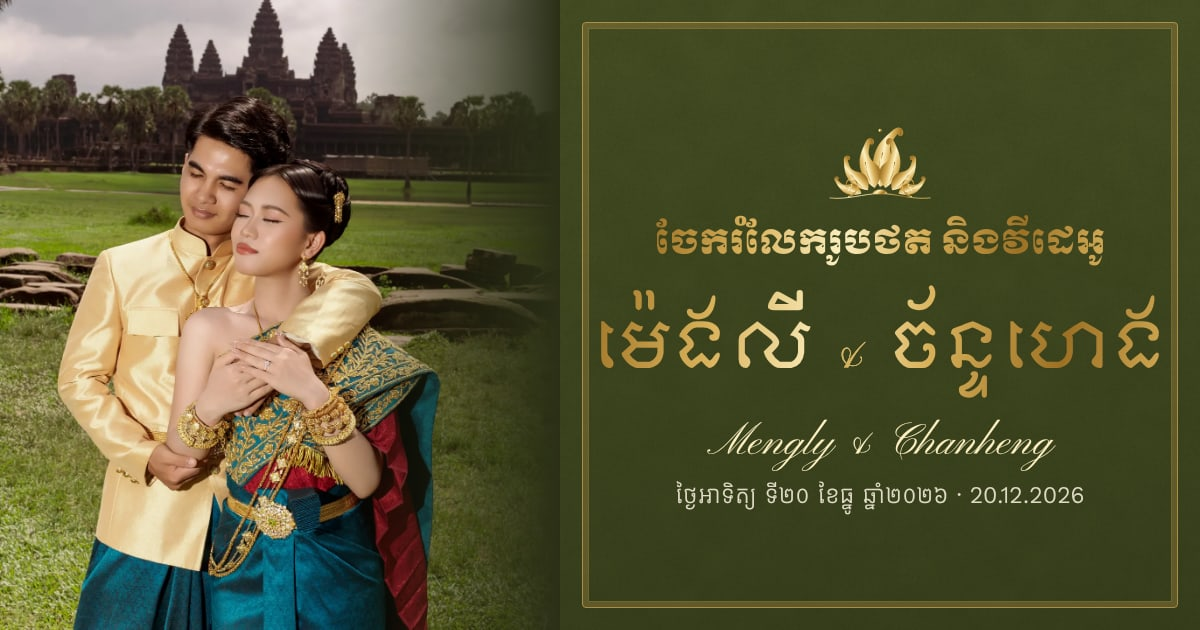
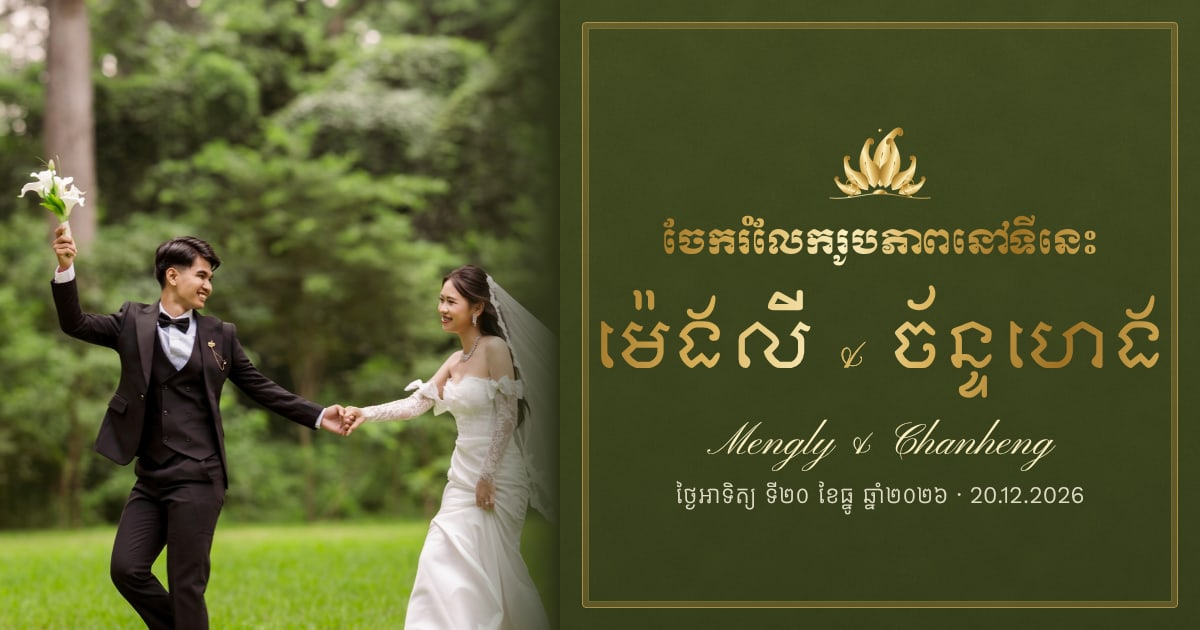
Photos: link preview with the forest couple photo + ចែករំលែករូបភាពនៅទីនេះ
Claude-Session: https://claude.ai/code/session_01KMMGV3abvatx73726xmVAK

diff --git a/scripts/og-photos.html b/scripts/og-photos.html
@@ -21,12 +21,13 @@
   .en { font-family: 'Pinyon Script'; font-size: 44px; color: #fbefc0; margin-top: 8px; }
   .d { font-family: 'Kantumruy Pro'; font-size: 24px; margin-top: 10px; opacity: .9; }
   .crest { width: 120px; }
+.photo::after{background:linear-gradient(90deg,rgba(18,20,11,0) 82%,#2a2f16)!important}
 </style></head>
 <body><div class="og">
-  <div class="photo"><img src="/photos/09-angkor-embrace-1280.webp"></div>
+  <div class="photo"><img src="/scripts/og-photos-couple.jpg" style="object-position:44% 50%"></div>
   <div class="side">
     <svg class="crest" id="crest"></svg>
-    <div class="t foil">ចែករំលែករូបថត និងវីដេអូ</div>
+    <div class="t foil">ចែករំលែករូបភាពនៅទីនេះ</div>
     <div class="n foil">ម៉េងលី <span class="amp">&amp;</span> ច័ន្ទហេង</div>
     <div class="en">Mengly &amp; Chanheng</div>
     <div class="d">ថ្ងៃអាទិត្យ ទី២០ ខែធ្នូ ឆ្នាំ២០២៦ · 20.12.2026</div>
